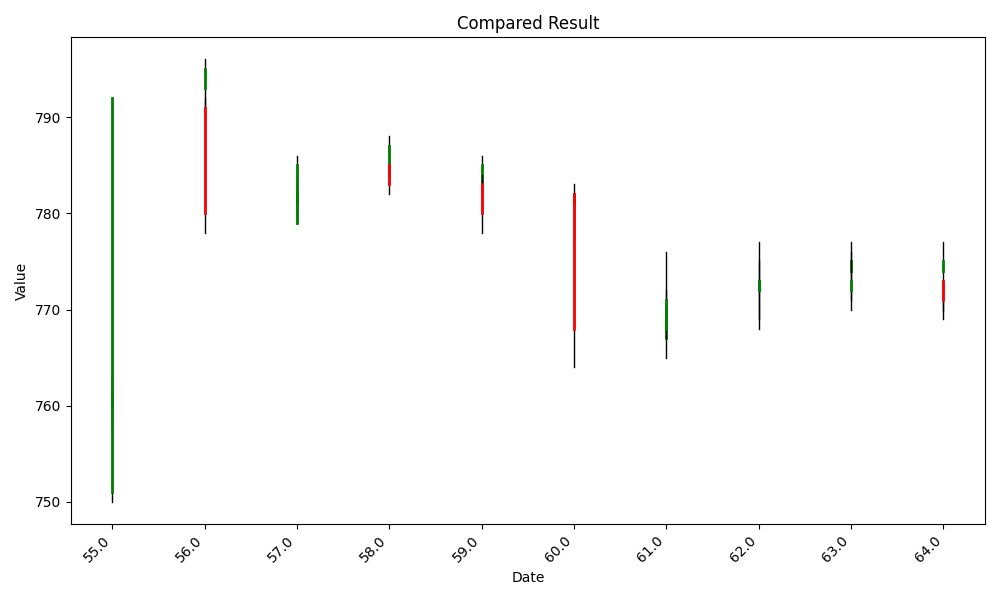
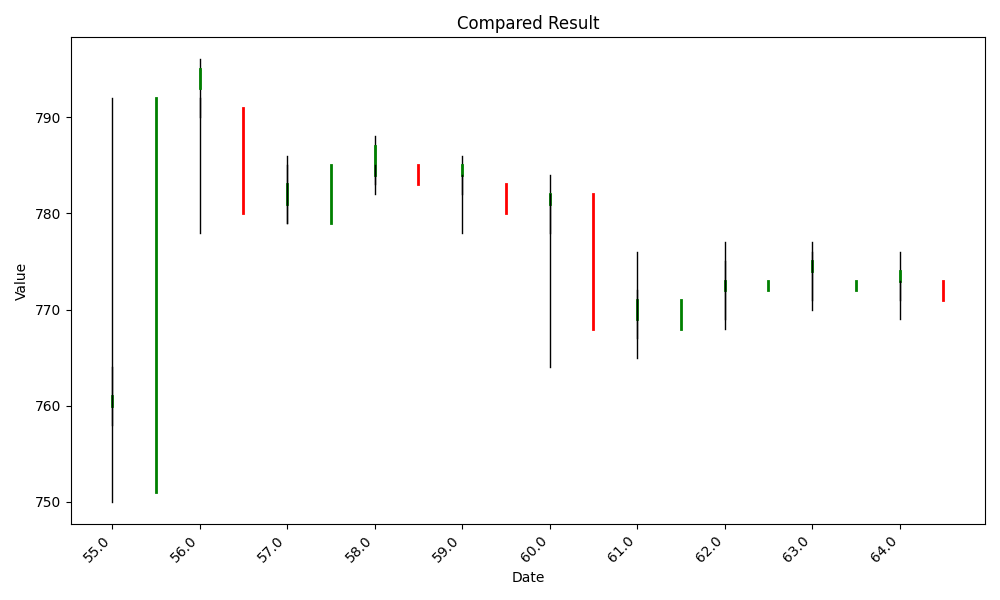
Enhance drawImage function to improve stock comparison visualization and update result image

diff --git a/drawResult/main.py b/drawResult/main.py
@@ -9,11 +9,12 @@ comparedResult = []
 def drawImage(comparedResult: List[Dict[str, Any]]) -> None:
     """
     1. comparedResult是一個json array
-    2. 繪製比較圖，繪製方式如同股票走勢圖
-    3. 以一根一根的線段繪製，使用提供的close、open、high、low、open數值
+    2. 根據comparedResult中的stockA、stockB的open、close、high、low數值繪製圖表
+    3. stockA、StockB的顏色分開，A是藍色，B是橘色
+    4. open、close、high、low繪製，參考股票的線段繪製方式，不管顏色，只管型態
+    5. stockB繪製再ID+0.5的位置
     """
     # 檢查comparedResult是否為空
-    print(comparedResult)
     if not comparedResult:
         print("comparedResult is empty.")
         return
@@ -42,8 +43,9 @@ def drawImage(comparedResult: List[Dict[str, Any]]) -> None:
 
             # 繪製線段
             ax.plot([i, i], [low, high], color="black", linewidth=1)  # 垂直線
-            ax.plot([i, i], [open_val, close],
-                    color=line_color, linewidth=2)  # 開收盤線
+            ax.plot([i + (0.5 if color == "orange" else 0), i + (0.5 if color ==
+                    # 開收盤線
+                                                                 "orange" else 0)], [open_val, close], color=line_color, linewidth=2)
 
     # 設定圖表標題和軸標籤
     ax.set_title("Compared Result")
